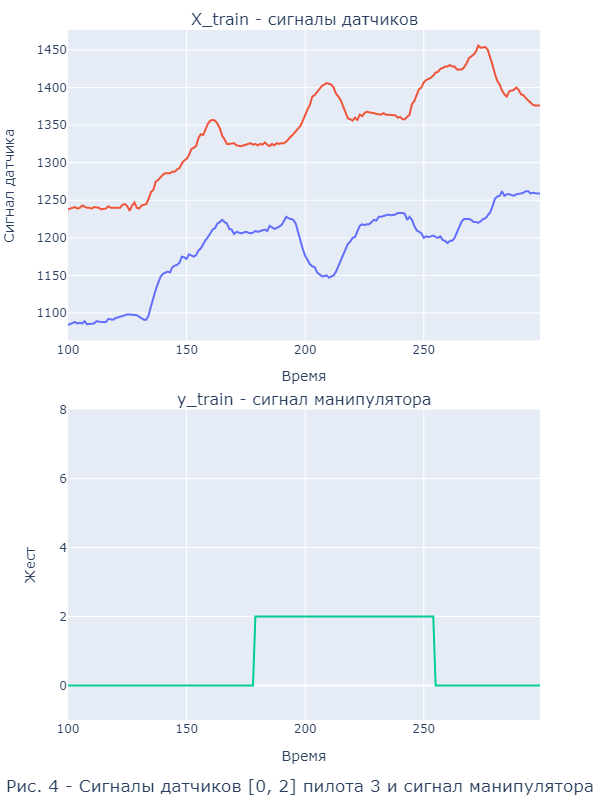
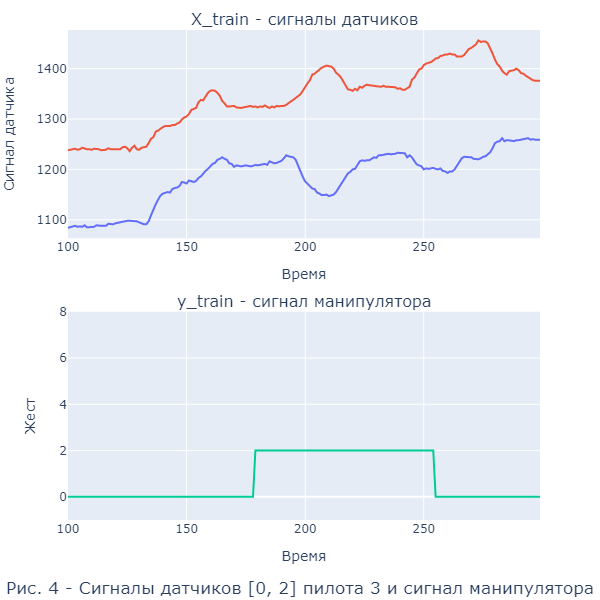
исправлена орфография

diff --git a/functions.py b/functions.py
@@ -84,9 +84,6 @@ def get_all_sensors_plot(Pilot_id, timesteps:list, mounts, plot_counter=1):
     
     X_train=mounts[Pilot_id]['X_train']
 
-    # df = pd.DataFrame(data = X_train[Pilot_id], index = [s for s in range(X_train[Pilot_id].shape[0])], 
-    #                     columns = [s for s in range(X_train[Pilot_id].shape[1])]
-    # )
     df = pd.DataFrame(
         data = X_train, 
         index = [s for s in range(X_train.shape[0])], 
@@ -277,7 +274,7 @@ def get_signal_and_train_plots(Pilot_id, timesteps:list, sensors:list, mounts, p
     fig = make_subplots(rows=2, cols=1, 
         subplot_titles=(f'X_train - сигналы датчиков', 'y_train - сигнал манипулятора', 
         #f'Производная сигналов датчиков', f'Квадрат производной сигналов датчиков'
-        ), vertical_spacing = 0.1,
+        ), vertical_spacing = 0.15,
     )
 
     for i in df_1.columns: 
@@ -292,7 +289,7 @@ def get_signal_and_train_plots(Pilot_id, timesteps:list, sensors:list, mounts, p
     'x':0.5, 'y':0.01}
     )
 
-    fig.update_layout(width=600, height=800, legend_title_text ='Номер датчика',
+    fig.update_layout(width=600, height=600, legend_title_text ='Номер датчика',
                         xaxis_title_text  = 'Время',  yaxis_title_text = 'Сигнал датчика', #yaxis_range=[1500, 1700], 
                         #xaxis2_title_text = 'Время', yaxis2_title_text = 'Сигнал датчика', #yaxis2_range= [0 , 200],
                         xaxis2_title_text = 'Время', yaxis2_title_text = 'Жест', yaxis2_range= [-1 , 8],
@@ -328,13 +325,12 @@ def get_signal_derivative_and_normalized_plot(Pilot_id, timesteps:list, sensors:
     scaler.fit(df_1)
     df_2 = pd.DataFrame(scaler.transform(df_1), index = range(df_1.index[0], df_1.index[-1]+1))
        
-    fig = make_subplots(rows=2, cols=2, 
-                        subplot_titles=(
-                        #f'Исходные сигналы датчиков', f'Нормализованные сигналы датчиков',
-                        #'y_train', 'y_train',
-                        f'Производная сигналов датчиков', f'Производная нормализованных сигналов датчиков', 
-                        f'Квадрат производной сигналов датчиков', f'Квадрат производной нормализованных сигналов датчиков'
-                        ), vertical_spacing = 0.1,
+    fig = make_subplots(
+        rows=2, cols=2, 
+        subplot_titles=(
+            f'Производная сигналов датчиков', f'Производная нормализованных сигналов датчиков', 
+            f'Квадрат производной сигналов датчиков', f'Квадрат производной нормализованных сигналов датчиков'
+        ), vertical_spacing = 0.1,
     )
 
 
